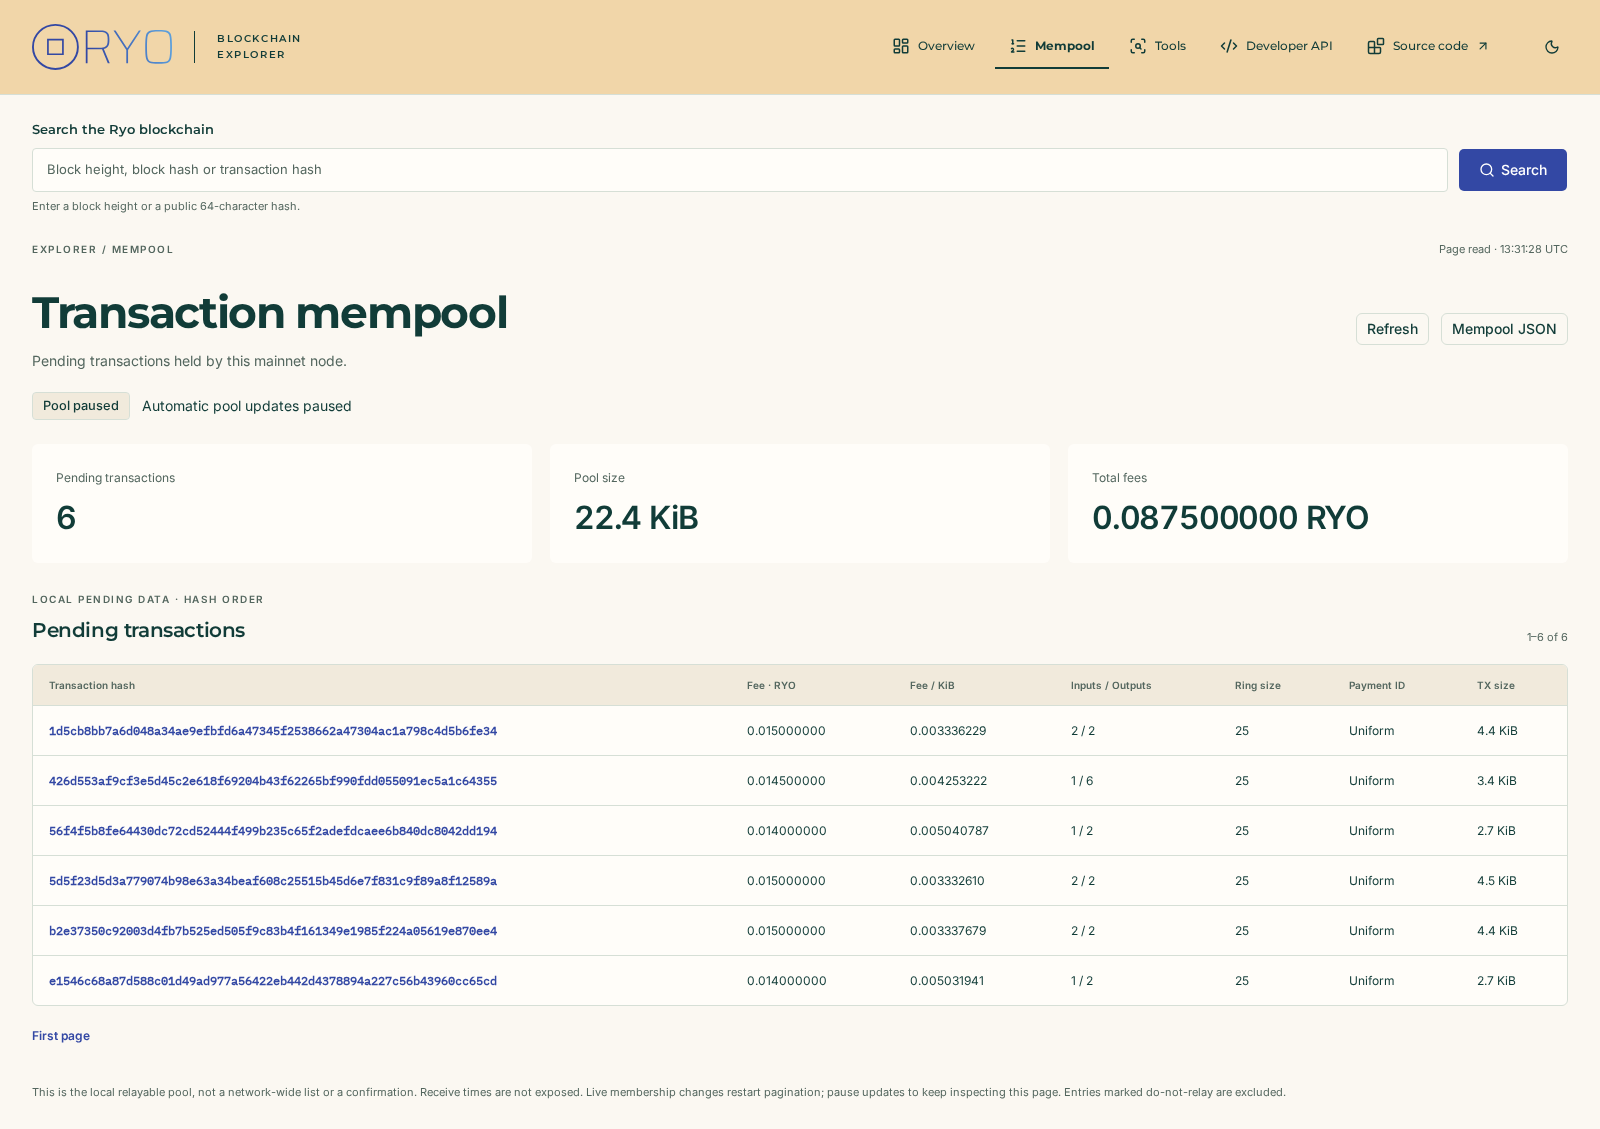
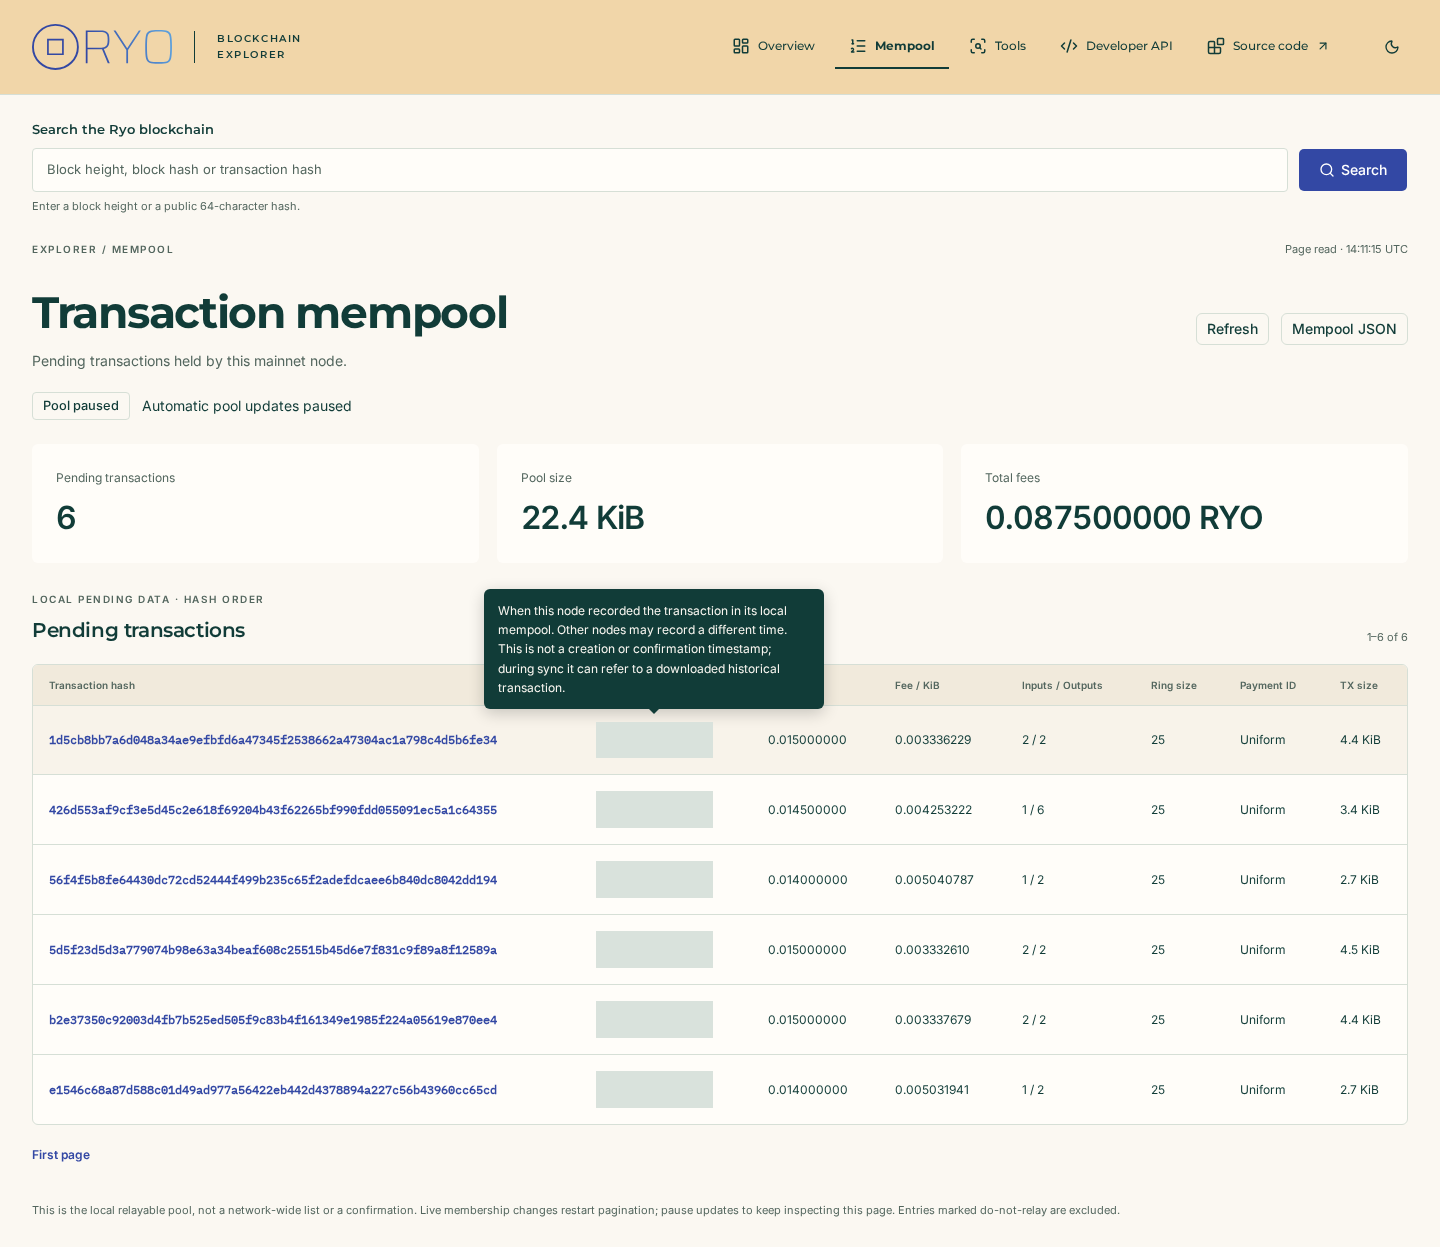
Show node-local mempool receipt time with contextual tooltip

diff --git a/web/src/app/mempool/page.tsx b/web/src/app/mempool/page.tsx
@@ -11,6 +11,7 @@ import {
   paymentIdTypes,
 } from "@/lib/format";
 import { ResourceFailure } from "@/components/detail";
+import { PoolReceiveTime } from "@/components/pool-receive-time";
 import { LiveMempool } from "@/components/live-mempool";
 import { Button } from "@/components/ui/button";
 import {
@@ -65,6 +66,8 @@ export default async function Mempool({
     return <ResourceFailure kind="Mempool" error={error} />;
   }
   const pool = response.data;
+  const pageRead = new Date();
+  const nowUnix = Math.floor(pageRead.getTime() / 1000).toString();
   const offset = query.cursor ? Number((query.cursor as string).slice(65)) : 0;
   const json = `/json/mempool?limit=50${query.cursor ? `&cursor=${query.cursor}` : ""}`;
   return (
@@ -72,7 +75,7 @@ export default async function Mempool({
       <div className="page-topline">
         <span className="eyebrow">EXPLORER / MEMPOOL</span>
         <span className="read-time">
-          Page read · {new Date().toISOString().slice(11, 19)} UTC
+          Page read · {pageRead.toISOString().slice(11, 19)} UTC
         </span>
       </div>
       <div className="page-heading">
@@ -134,6 +137,7 @@ export default async function Mempool({
             <TableHeader>
               <TableRow>
                 <TableHead>Transaction hash</TableHead>
+                <TableHead>Seen by this node · UTC</TableHead>
                 <TableHead>Fee · RYO</TableHead>
                 <TableHead>Fee / KiB</TableHead>
                 <TableHead>Inputs / Outputs</TableHead>
@@ -152,6 +156,12 @@ export default async function Mempool({
                     >
                       <code>{tx.hash}</code>
                     </a>
+                  </TableCell>
+                  <TableCell>
+                    <PoolReceiveTime
+                      value={tx.local_received_timestamp_unix}
+                      nowUnix={nowUnix}
+                    />
                   </TableCell>
                   <TableCell>
                     {coins(tx.fee_atomic).replace(" RYO", "")}
@@ -189,9 +199,9 @@ export default async function Mempool({
         </div>
         <p className="table-note">
           This is the local relayable pool, not a network-wide list or a
-          confirmation. Receive times are not exposed. Live membership changes
-          restart pagination; pause updates to keep inspecting this page.
-          Entries marked do-not-relay are excluded.
+          confirmation. Live membership changes restart pagination; pause
+          updates to keep inspecting this page. Entries marked do-not-relay are
+          excluded.
         </p>
       </section>
     </>

diff --git a/web/tests/browser/dashboard.spec.ts b/web/tests/browser/dashboard.spec.ts
@@ -845,6 +845,7 @@ test("JSON links preserve the explorer layout, format exactly and safely, with o
 test("mempool pages cover all entries, detect membership changes and recover from empty and unavailable states", async ({
   page,
   request,
+  browser,
 }) => {
   await page.clock.install();
   await page.goto("/mempool");
@@ -853,6 +854,22 @@ test("mempool pages cover all entries, detect membership changes and recover fro
     exact: true,
   });
   await expect(table.locator("tbody tr")).toHaveCount(50);
+  const received = table
+    .getByRole("button", { name: /About this node's receive time/ })
+    .first();
+  await expect(received).toContainText("2026-10-06 12:50:00");
+  await received.hover();
+  await expect(page.getByRole("tooltip")).toContainText(
+    "When this node recorded the transaction",
+  );
+  await expect(page.getByRole("tooltip")).toContainText(
+    "Other nodes may record a different time",
+  );
+  expect((await new AxeBuilder({ page }).analyze()).violations).toEqual([]);
+  await received.focus();
+  await expect(page.getByRole("tooltip")).toBeVisible();
+  await page.keyboard.press("Escape");
+  await page.mouse.move(0, 0);
   await expect(table).toContainText("Uniform");
   await expect(table.locator("tbody tr").first()).toContainText("25");
   await expect(page.locator(".section-note")).toContainText("1–50 of 53");
@@ -882,6 +899,33 @@ test("mempool pages cover all entries, detect membership changes and recover fro
     ),
   ).toBe(false);
   expect((await new AxeBuilder({ page }).analyze()).violations).toEqual([]);
+  const touchContext = await browser.newContext({
+    baseURL: "http://127.0.0.1:3100",
+    viewport: { width: 390, height: 844 },
+    hasTouch: true,
+    isMobile: true,
+  });
+  try {
+    const touchPage = await touchContext.newPage();
+    await touchPage.goto("/mempool");
+    await touchPage
+      .getByRole("button", { name: /About this node's receive time/ })
+      .first()
+      .tap();
+    await expect(touchPage.getByRole("tooltip")).toContainText(
+      "Other nodes may record a different time",
+    );
+    expect(
+      (await new AxeBuilder({ page: touchPage }).analyze()).violations,
+    ).toEqual([]);
+  } finally {
+    await touchContext.close();
+  }
+  await request.get("http://127.0.0.1:3101/__control?mode=pool-time-unknown");
+  await page.reload();
+  await expect(table.getByLabel("Local receive time unavailable")).toHaveCount(
+    50,
+  );
   await request.get("http://127.0.0.1:3101/__control?mode=pool-empty");
   await page.reload();
   await expect(

diff --git a/web/src/components/pool-receive-time.tsx b/web/src/components/pool-receive-time.tsx
@@ -1,0 +1,59 @@
+"use client";
+import { useEffect, useState } from "react";
+import { Tooltip } from "radix-ui";
+import { poolAge, timestamp } from "@/lib/format";
+const explanation =
+  "When this node recorded the transaction in its local mempool. Other nodes may record a different time. This is not a creation or confirmation timestamp; during sync it can refer to a downloaded historical transaction.";
+export function PoolReceiveTime({
+  value,
+  nowUnix,
+}: {
+  value: string | null | undefined;
+  nowUnix: string;
+}) {
+  const [now, setNow] = useState(nowUnix);
+  const [open, setOpen] = useState(false);
+  useEffect(() => {
+    if (!value || value === "0") return;
+    const timer = setInterval(() => {
+      if (!document.hidden) setNow(Math.floor(Date.now() / 1000).toString());
+    }, 10000);
+    return () => clearInterval(timer);
+  }, [value]);
+  if (!value || value === "0")
+    return <span aria-label="Local receive time unavailable">—</span>;
+  const date = timestamp(value);
+  return (
+    <Tooltip.Provider delayDuration={200}>
+      <Tooltip.Root open={open} onOpenChange={setOpen}>
+        <Tooltip.Trigger asChild>
+          <button
+            type="button"
+            className="pool-receive-time"
+            aria-label={`About this node's receive time: ${date}`}
+            onClick={(event) => {
+              event.preventDefault();
+              setOpen(true);
+            }}
+          >
+            <span>{date.replace(" UTC", "")}</span>
+            <small>{poolAge(value, now)}</small>
+          </button>
+        </Tooltip.Trigger>
+        <Tooltip.Portal>
+          <aside aria-label="Local receive time explanation">
+            <Tooltip.Content
+              className="pool-time-tooltip"
+              side="top"
+              sideOffset={8}
+              collisionPadding={16}
+            >
+              {explanation}
+              <Tooltip.Arrow />
+            </Tooltip.Content>
+          </aside>
+        </Tooltip.Portal>
+      </Tooltip.Root>
+    </Tooltip.Provider>
+  );
+}

diff --git a/web/tests/unit.test.ts b/web/tests/unit.test.ts
@@ -20,6 +20,7 @@ import {
 import { publicNodeStatus } from "../src/lib/node-status";
 import { intervalPlot } from "../src/lib/interval-plot";
 import {
+  poolAge,
   ringSize,
   paymentIdTypes,
   bytes,
@@ -657,5 +658,38 @@ test("pool pages and inspection tools preserve public scope, exact metadata and 
   assert.equal(
     toolQuery({ tool: "address", value: "1".repeat(95), viewkey: "secret" }),
     null,
+  );
+});
+
+test("local pool receipt timestamps preserve node provenance, unknown values and clock differences", () => {
+  const pool = structuredClone(examples.MempoolResponse);
+  pool.data.transaction_count = "1";
+  pool.data.items = [
+    {
+      ...examples.BlockResponse.data.transactions[0],
+      coinbase: false,
+      local_received_timestamp_unix: "1791291000",
+    },
+  ];
+  assert.equal(
+    mempoolResponse.parse(pool).data.items[0].local_received_timestamp_unix,
+    "1791291000",
+  );
+  assert.equal(poolAge("1791291000", "1791291180"), "3 min ago");
+  assert.equal(poolAge("1791291000", "1791291001"), "1 s ago");
+  assert.equal(poolAge("1791291000", "1791290999"), "Clock difference");
+  pool.data.items[0].local_received_timestamp_unix = 1791291000;
+  assert.equal(mempoolResponse.safeParse(pool).success, false);
+  pool.data.items[0].local_received_timestamp_unix = null;
+  assert.equal(mempoolResponse.safeParse(pool).success, true);
+  delete pool.data.items[0].local_received_timestamp_unix;
+  assert.equal(mempoolResponse.safeParse(pool).success, true);
+  assert.equal(examples.TransactionResponse.data.inclusion.timestamp_unix, "0");
+  assert.equal(
+    Object.hasOwn(
+      examples.TransactionResponse.data,
+      "local_received_timestamp_unix",
+    ),
+    false,
   );
 });

diff --git a/web/src/app/globals.css b/web/src/app/globals.css
@@ -1414,3 +1414,8 @@ html {
 .tool-result > p { margin-bottom: 16px; }
 @media (max-width: 1100px) { .desktop-navigation { display: none; } .mobile-menu { display: block; } }
 @media (max-width: 750px) { .tool-selector { grid-template-columns: 1fr; } }
+
+.pool-receive-time { display: grid; gap: 3px; text-align: left; white-space: nowrap; border-bottom: 1px dotted currentColor; }
+.pool-receive-time small { color: var(--muted-foreground); font-size: 11px; }
+.pool-time-tooltip { z-index: 60; max-width: min(340px, calc(100vw - 32px)); border-radius: 6px; padding: 12px 14px; background: var(--foreground); color: var(--background); font-size: 12px; line-height: 1.6; box-shadow: 0 4px 16px #0003; }
+.pool-time-tooltip svg { fill: var(--foreground); }

diff --git a/web/src/lib/format.ts b/web/src/lib/format.ts
@@ -75,3 +75,12 @@ export function paymentIdTypes(types: string[] | undefined) {
         .join(" · ")
     : "None";
 }
+
+export function poolAge(value: string, now: string): string {
+  const elapsed = BigInt(now) - BigInt(value);
+  if (elapsed < 0n) return "Clock difference";
+  if (elapsed < 60n) return `${integer(elapsed)} s ago`;
+  if (elapsed < 3600n) return `${integer(elapsed / 60n)} min ago`;
+  if (elapsed < 86400n) return `${integer(elapsed / 3600n)} h ago`;
+  return `${integer(elapsed / 86400n)} d ago`;
+}

diff --git a/web/src/lib/contracts.ts b/web/src/lib/contracts.ts
@@ -351,7 +351,13 @@ export const mempoolResponse = z
   .object({
     meta,
     data: z.object({
-      items: z.array(transactionSummary).max(100),
+      items: z
+        .array(
+          transactionSummary.extend({
+            local_received_timestamp_unix: uint64.nullable().optional(),
+          }),
+        )
+        .max(100),
       transaction_count: uint64,
       size_bytes: uint64,
       fee_atomic: uint64,

diff --git a/web/tests/fixture-server.ts b/web/tests/fixture-server.ts
@@ -91,6 +91,8 @@ createServer((req, res) => {
       hash: makeHash(1000n + BigInt(offset + i)),
       coinbase: false,
       fee_atomic: "30000000",
+      local_received_timestamp_unix:
+        mode === "pool-time-unknown" ? null : "1791291000",
       size_bytes: "4500",
       input_count: 2,
       output_count: 2,

diff --git a/tests/service_fixture.cpp b/tests/service_fixture.cpp
@@ -156,8 +156,16 @@ int main(int argc, char** argv) {
 
         const auto pool_page = transactions.pool(1);
         check(pool_page.count == 1 && pool_page.metadata.size() == 1 && pool_page.metadata[0].hash == ordinary_metadata.hash &&
-              pool_page.fees == ordinary_metadata.fee && pool_page.next_cursor.empty(), "Native public pool page failed.");
+              pool_page.fees == ordinary_metadata.fee && pool_page.receive_times.at(0) == meta.receive_time && pool_page.next_cursor.empty(), "Native public pool page failed.");
         record(api, "/api/v2/mempool?limit=1", "MempoolResponse");
+        const auto observed_pool = api.get("/api/v2/mempool?limit=1").body["data"]["items"][0];
+        check(observed_pool["local_received_timestamp_unix"] == "123456789" &&
+              observed_pool.find("last_relayed_time") == observed_pool.end(), "Local receive time provenance or relay-time exclusion failed.");
+        auto unknown_time_meta = meta; unknown_time_meta.receive_time = 0;
+        writer.block_txn_start(false); writer.update_txpool_tx(ordinary_metadata.hash, unknown_time_meta); writer.block_txn_stop();
+        check(api.get("/api/v2/mempool").body["data"]["items"][0]["local_received_timestamp_unix"].is_null(),
+              "Missing receive time was invented.");
+        writer.block_txn_start(false); writer.update_txpool_tx(ordinary_metadata.hash, meta); writer.block_txn_stop();
         auto second_meta = meta; second_meta.do_not_relay = false;
         second_meta.blob_size = cryptonote::get_object_blobsize(private_pool_tx);
         writer.block_txn_start(false); writer.add_txpool_tx(private_pool_tx, second_meta); writer.block_txn_stop();

diff --git a/api/ApiV2.cpp b/api/ApiV2.cpp
@@ -132,7 +132,12 @@ ApiResponse ApiV2::get(const std::string& target) {
             }
             auto pool = transactions_.pool(limit, cursor);
             json items = json::array();
-            for (size_t i = 0; i < pool.transactions.size(); ++i) items.push_back(summary(pool.transactions[i], pool.metadata[i]));
+            for (size_t i = 0; i < pool.transactions.size(); ++i) {
+                auto item = summary(pool.transactions[i], pool.metadata[i]);
+                item["local_received_timestamp_unix"] = pool.receive_times.at(i) ?
+                    json(std::to_string(pool.receive_times.at(i))) : json(nullptr);
+                items.push_back(std::move(item));
+            }
             return {200, {{"data", {{"items", items}, {"transaction_count", std::to_string(pool.count)},
                 {"size_bytes", std::to_string(pool.size)}, {"fee_atomic", std::to_string(pool.fees)},
                 {"snapshot", pool.snapshot}, {"next_cursor", pool.next_cursor.empty() ? json(nullptr) : json(pool.next_cursor)}}},

diff --git a/src/services/TransactionService.cpp b/src/services/TransactionService.cpp
@@ -100,6 +100,7 @@ PoolPage TransactionService::pool(unsigned limit, const std::string& cursor) {
             if (epee::string_tools::pod_to_hex(metadata.hash) != entries[i].id || metadata.coinbase ||
                 metadata.size != entries[i].meta.blob_size || metadata.fee != entries[i].meta.fee)
                 throw QueryFailure(QueryError::database, "Pool metadata does not match native bytes.");
+            result.receive_times.push_back(entries[i].meta.receive_time);
             result.transactions.push_back(std::move(tx)); result.metadata.push_back(std::move(metadata));
         }
         if (end < entries.size()) result.next_cursor = result.snapshot + "." + std::to_string(end);

diff --git a/src/services/TransactionService.h b/src/services/TransactionService.h
@@ -16,6 +16,8 @@ struct TransactionResult {
 struct PoolPage {
     std::vector<cryptonote::transaction> transactions;
     std::vector<TransactionMetadata> metadata;
+    // Owner-authorized local pool observation, separate from chain inclusion time.
+    std::vector<uint64_t> receive_times;
     uint64_t chain_height = 0, count = 0, size = 0, fees = 0;
     std::string snapshot, next_cursor;
 };
